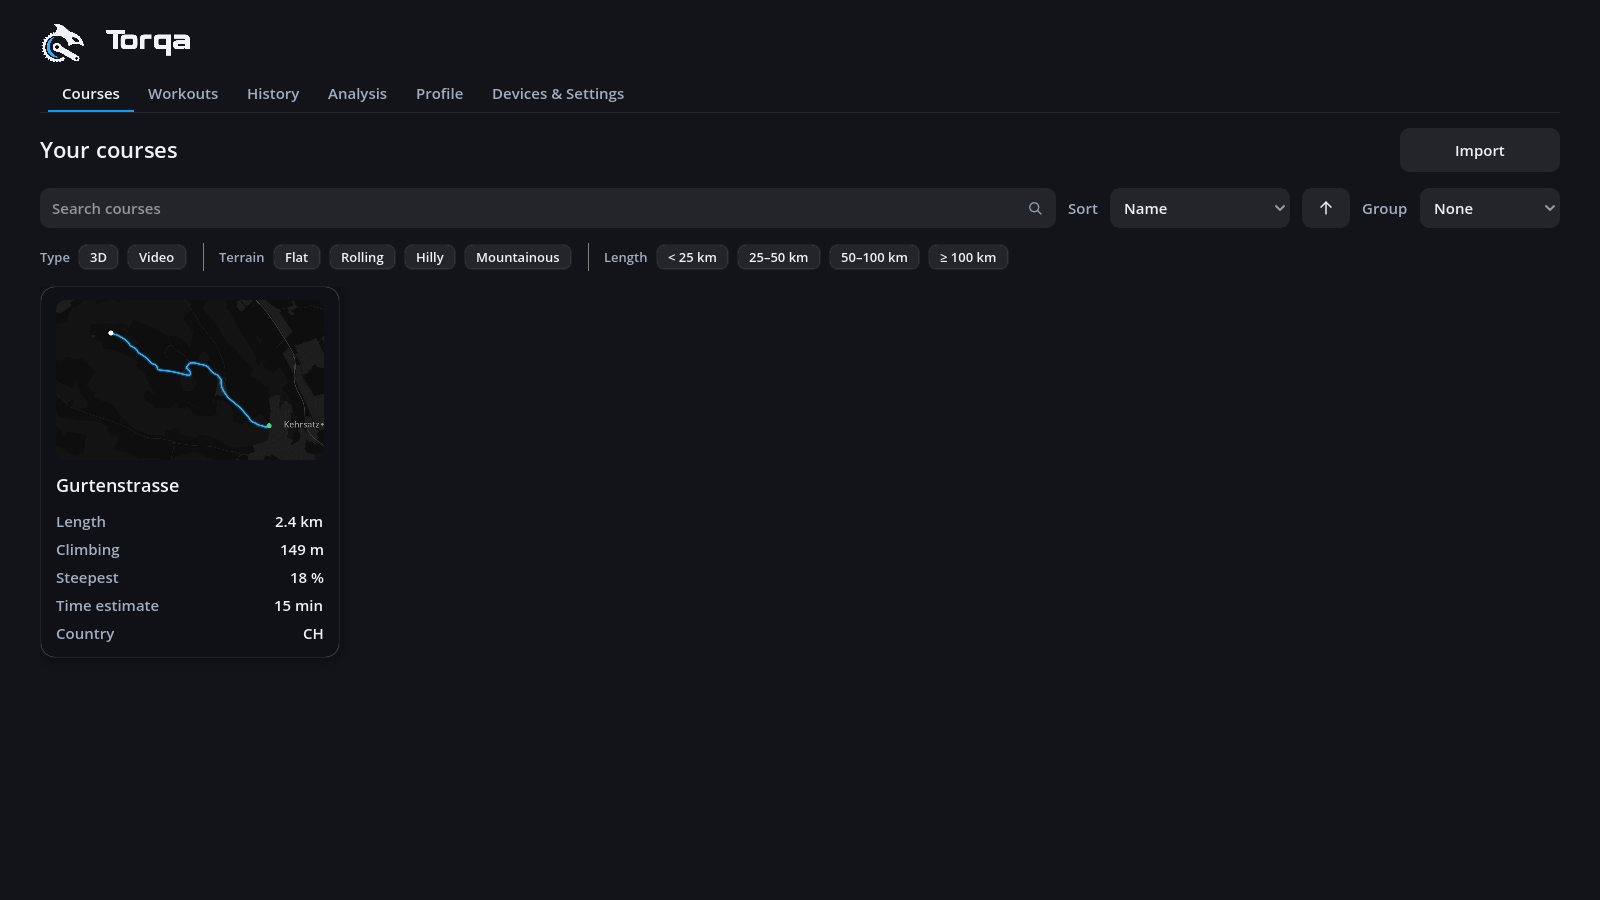
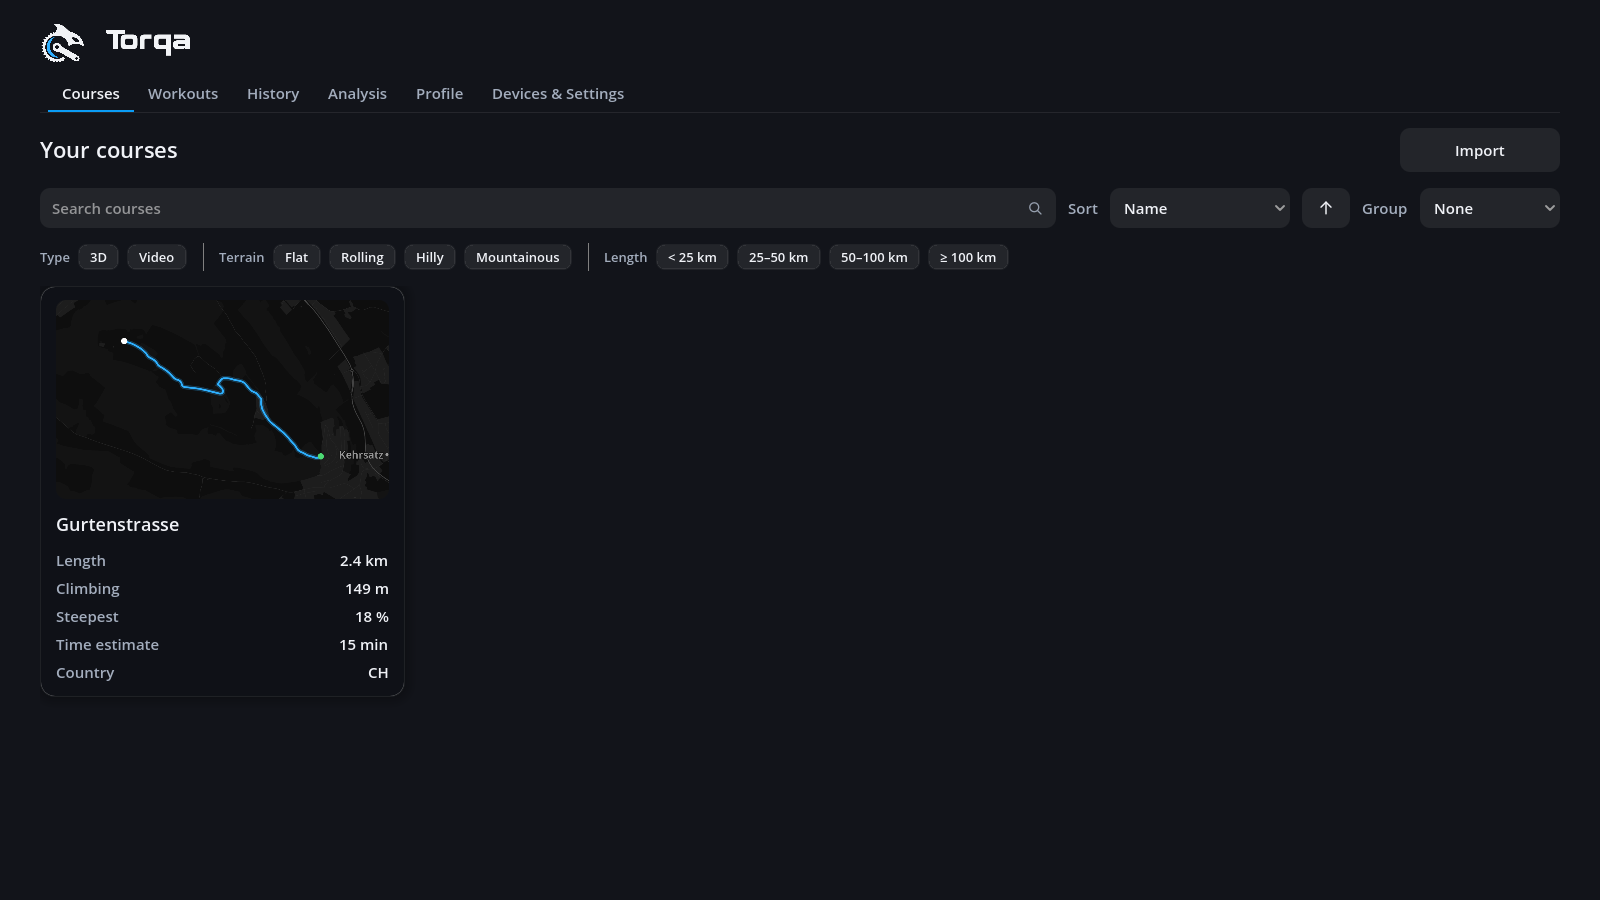
feat(courses): gallery cards share the full width
The cards were a fixed 300 px, leaving the rest of each row empty. As many
as fit at 300 px or wider now share the row evenly, recalculated on resize;
the route map grows with the card at the map picture's aspect.

diff --git a/docs/PLAN.md b/docs/PLAN.md
@@ -225,7 +225,8 @@ Built in rideable steps:
   (ADR 0007 format bump); frames from the video for video courses
 - [x] Courses gallery (cards with stats and small map) and course detail page with ride options;
   courses renamed (the pencil's Edit course dialog, with their video) and deleted (the bin)
-  there, 3D world built only when riding
+  there, 3D world built only when riding; the cards share the window's full width, their maps
+  growing with them
 - [x] The gallery searched by name, sorted (name, length, climbing, estimated time, date added,
   last ridden), filtered by chips (type, terrain, length bands) and grouped (R67, #230); each
   card with the rider's estimated time from the profile its file keeps
